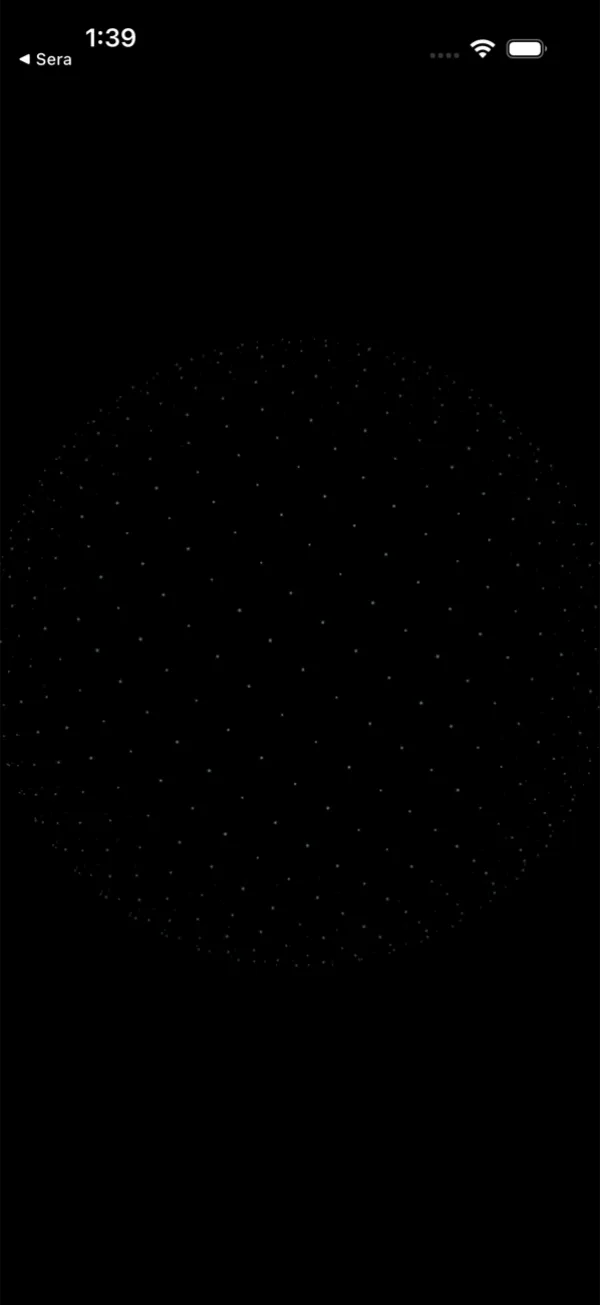
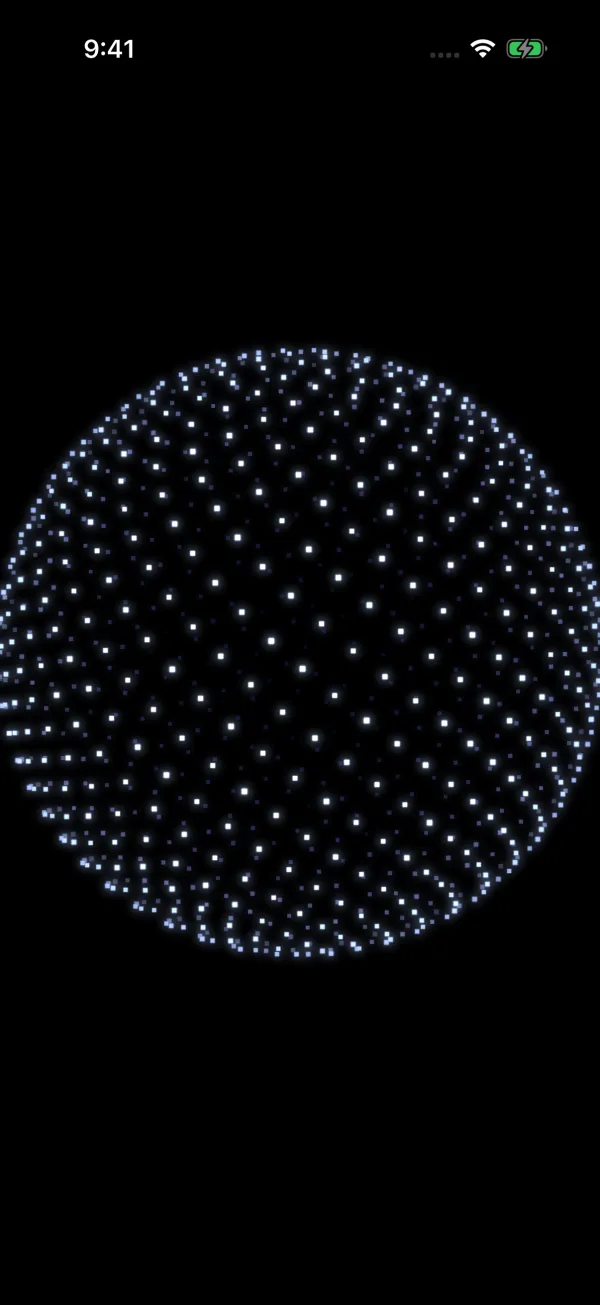
Replace dark ParticleSphere screenshot with a visible capture

diff --git a/index.html b/index.html
@@ -63,7 +63,7 @@
     </div>
 
     <figure class="hero-stage">
-      <div class="phone p-back"><img src="assets/img/particle-morph.webp" alt="" width="600" height="1304" /></div>
+      <div class="phone p-back"><img src="assets/img/particle-sphere.webp" alt="" width="600" height="1304" /></div>
       <div class="phone p-front"><img src="assets/img/sera-home.webp" alt="Sera, an iOS skincare app, showing today's morning and night routines" width="600" height="1304" fetchpriority="high" /></div>
       <figcaption>Sera &amp; ParticleSphere, built in SwiftUI</figcaption>
     </figure>
